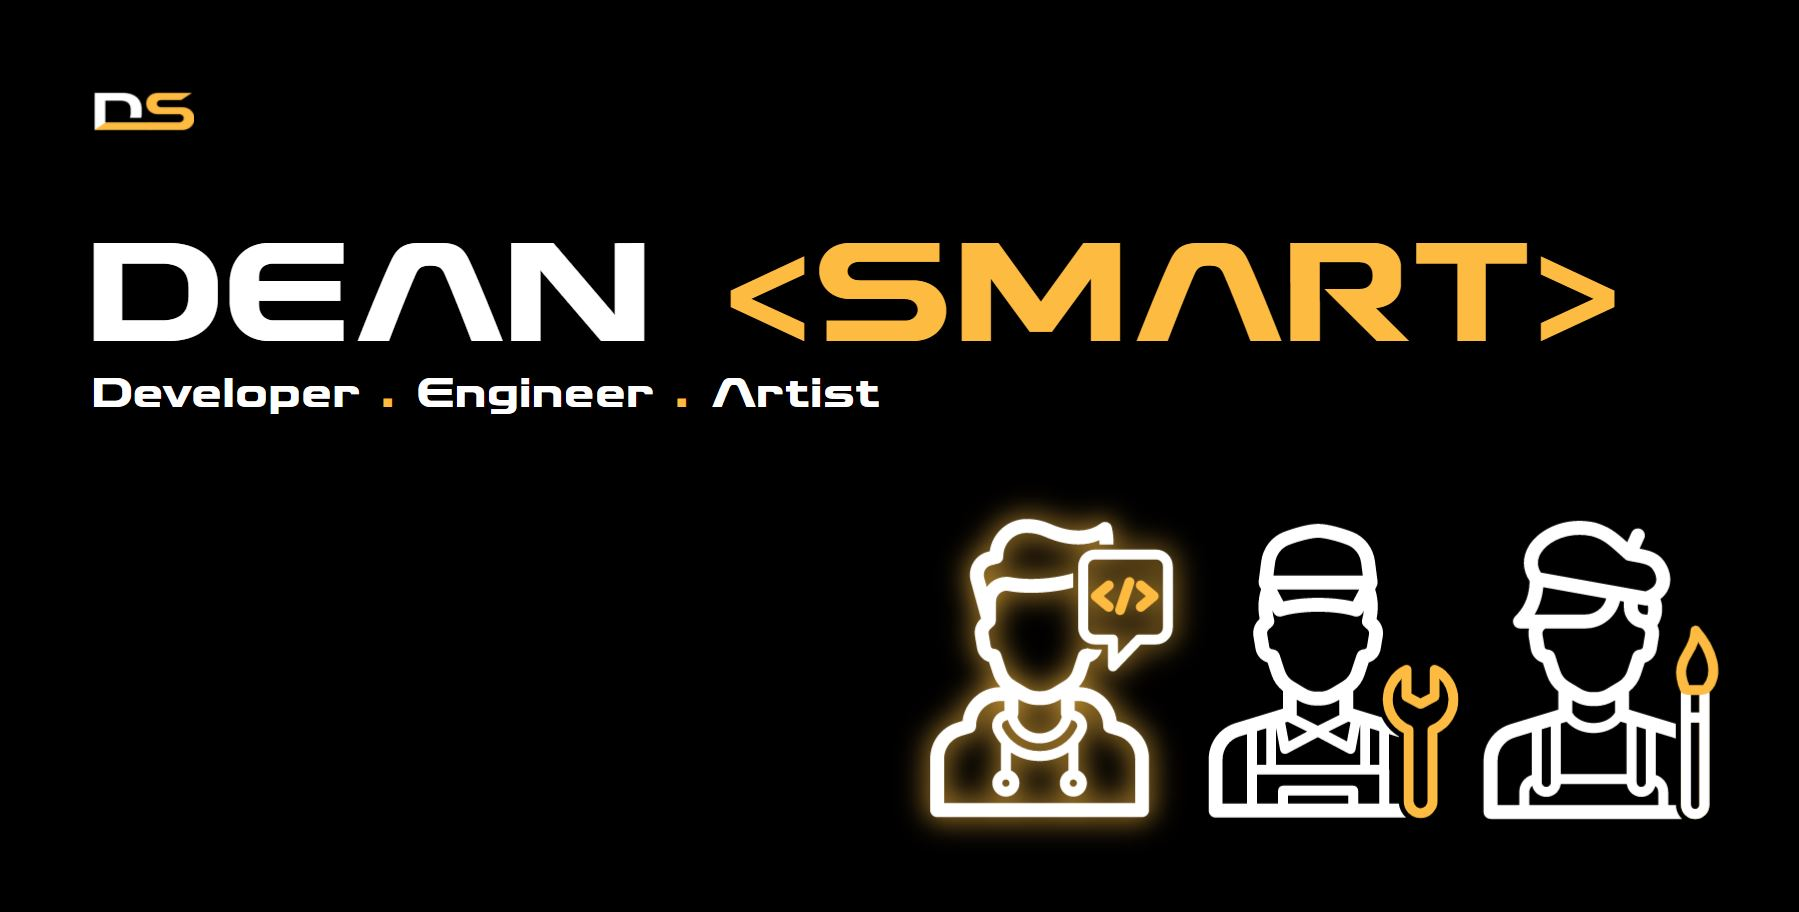
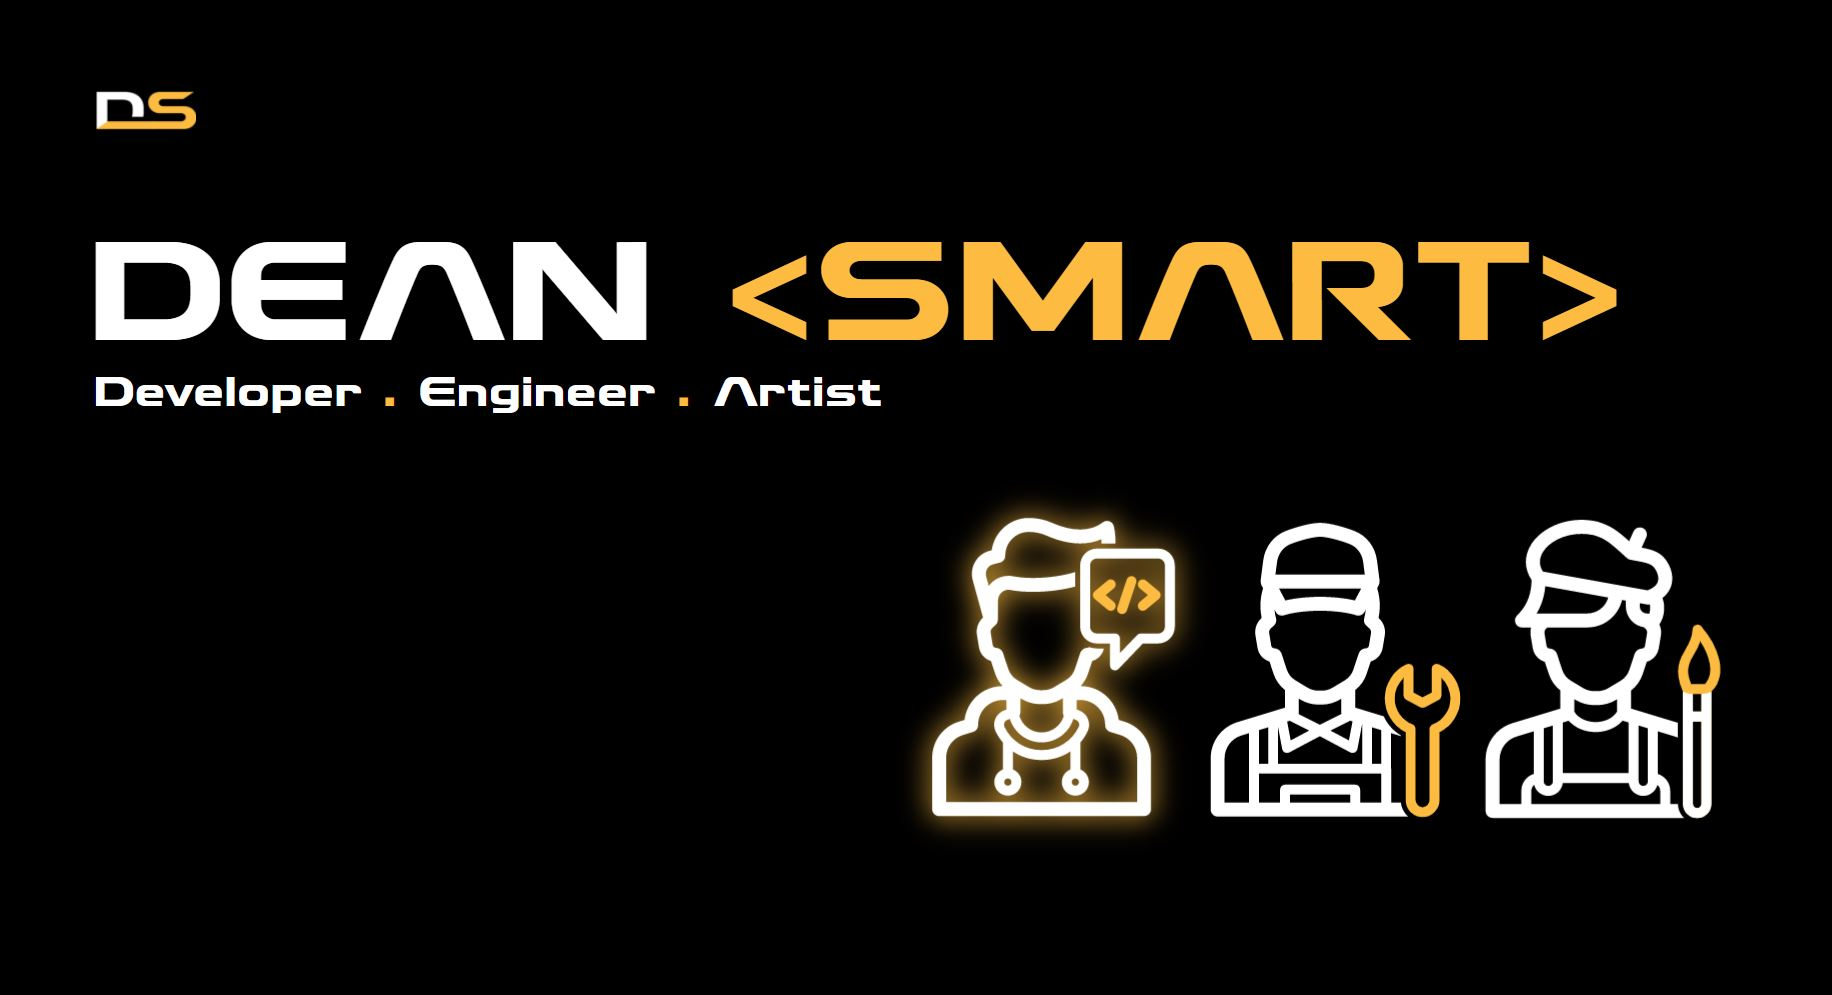
webp images now have png fallback

Changed region(s): [[0.4981, 0.4912, 0.965, 0.9211], [0.0311, 0.2149, 0.9027, 0.4605], [0.0311, 0.0921, 0.1245, 0.1535]]

diff --git a/src/components/Skills/Skills.js b/src/components/Skills/Skills.js
@@ -9,23 +9,41 @@ import art from '../../assets/images/artist.svg';
 import engineer from '../../assets/images/engineer.svg';
 import coder from '../../assets/images/coder.svg';
 import htmlLogo from '../../assets/images/html.webp';
+import htmlLogoPng from '../../assets/images/html.png';
 import cssLogo from '../../assets/images/css.webp';
+import cssLogoPng from '../../assets/images/css.png';
 import phpLogo from '../../assets/images/php.webp';
+import phpLogoPng from '../../assets/images/php.png';
 import laravelLogo from '../../assets/images/laravel.webp';
+import laravelLogoPng from '../../assets/images/laravel.png';
 import reactLogo from '../../assets/images/react.webp';
+import reactLogoPng from '../../assets/images/react.png';
 import jsLogo from '../../assets/images/js.webp';
+import jsLogoPng from '../../assets/images/js.png';
 import liam from '../../assets/images/liam.webp';
+import liamPng from '../../assets/images/liam.png';
 import siam from '../../assets/images/siam.webp';
+import siamPng from '../../assets/images/siam.png';
 import wilson from '../../assets/images/wilson.webp';
+import wilsonPng from '../../assets/images/wilson.png';
 import ronnie from '../../assets/images/ronnie.webp';
+import ronniePng from '../../assets/images/ronnie.png';
 import oldMan from '../../assets/images/oldMan.webp';
+import oldManPng from '../../assets/images/oldMan.png';
 import her from '../../assets/images/her.webp';
+import herPng from '../../assets/images/her.png';
 import fs from '../../assets/images/fs.webp';
+import fsPng from '../../assets/images/fs.png';
 import aeroblade from '../../assets/images/aeroblade.webp';
+import aerobladePng from '../../assets/images/aeroblade.png';
 import patent from '../../assets/images/patent.webp';
+import patentPng from '../../assets/images/patent.png';
 import dyson from '../../assets/images/dyson.webp';
+import dysonPng from '../../assets/images/dyson.png';
 import db11 from '../../assets/images/db11.webp';
+import db11Png from '../../assets/images/db11.png';
 import damper from '../../assets/images/damper.webp';
+import damperPng from '../../assets/images/damper.png';
 
 class Skills extends Component {
 
@@ -37,30 +55,102 @@ class Skills extends Component {
                 <div className="content__drag-area">
                     <span className="spacer"></span>
                     <div className="img-wrap3">
-                        <img className="img-trail3" src={htmlLogo} alt="HTML Logo"></img>
-                        <img className="img-trail3" src={cssLogo} alt="CSS Logo"></img>
-                        <img className="img-trail3" src={phpLogo} alt="php Logo"></img>
-                        <img className="img-trail3" src={laravelLogo} alt="Laravel Logo"></img>
-                        <img className="img-trail3" src={reactLogo} alt="React Logo"></img>
-                        <img className="img-trail3" src={jsLogo} alt="JS Logo"></img>
+                        <picture className="img-trail3">   
+                            <source srcSet={htmlLogo} type="image/webp" />
+                            <source srcSet={htmlLogoPng} type="image/png" />
+                            <img src={htmlLogoPng} alt="HTML Logo" />
+                        </picture> 
+                        <picture className="img-trail3">   
+                            <source srcSet={cssLogo} type="image/webp" />
+                            <source srcSet={cssLogoPng} type="image/png" />
+                            <img src={cssLogoPng} alt="CSS Logo" />
+                        </picture> 
+                        <picture className="img-trail3">   
+                            <source srcSet={phpLogo} type="image/webp" />
+                            <source srcSet={phpLogoPng} type="image/png" />
+                            <img src={phpLogo} alt="php Logo" />
+                        </picture> 
+                        <picture className="img-trail3">   
+                            <source srcSet={laravelLogo} type="image/webp" />
+                            <source srcSet={laravelLogoPng} type="image/png" />
+                            <img src={laravelLogo} alt="Laravel Logo" />
+                        </picture> 
+                        <picture className="img-trail3">   
+                            <source srcSet={reactLogo} type="image/webp" />
+                            <source srcSet={reactLogoPng} type="image/png" />
+                            <img src={reactLogo} alt="React Logo" />
+                        </picture> 
+                        <picture className="img-trail3">   
+                            <source srcSet={jsLogo} type="image/webp" />
+                            <source srcSet={jsLogoPng} type="image/png" />
+                            <img src={jsLogo} alt="JS Logo" />
+                        </picture> 
                         <div className="img-drag3" style={{backgroundImage: `url(${coder})`}}></div>
                     </div>
                     <div className="img-wrap2">
-                        <img className="img-trail2" src={fs} alt="formula student racecar"></img>
-                        <img className="img-trail2" src={aeroblade} alt="aston martin deployable spoiler close up"></img>
-                        <img className="img-trail2" src={patent} alt="active aerodynamic patent"></img>
-                        <img className="img-trail2" src={db11} alt="aston martin db11"></img>
-                        <img className="img-trail2" src={dyson} alt="dyson electric vehicle concept"></img>
-                        <img className="img-trail2" src={damper} alt="screenshot of formula student adjustable damper program"></img>
+                        <picture className="img-trail2">   
+                            <source srcSet={fs} type="image/webp" />
+                            <source srcSet={fsPng} type="image/png" />
+                            <img src={fs} alt="formula student racecar" />
+                        </picture> 
+                        <picture className="img-trail2">   
+                            <source srcSet={aeroblade} type="image/webp" />
+                            <source srcSet={aerobladePng} type="image/png" />
+                            <img src={aeroblade} alt="aston martin deployable spoiler close up" />
+                        </picture> 
+                        <picture className="img-trail2">   
+                            <source srcSet={patent} type="image/webp" />
+                            <source srcSet={patentPng} type="image/png" />
+                            <img src={patent} alt="active aerodynamic patent" />
+                        </picture> 
+                        <picture className="img-trail2">   
+                            <source srcSet={db11} type="image/webp" />
+                            <source srcSet={db11Png} type="image/png" />
+                            <img src={db11} alt="aston martin db11" />
+                        </picture>
+                        <picture className="img-trail2">   
+                            <source srcSet={dyson} type="image/webp" />
+                            <source srcSet={dysonPng} type="image/png" />
+                            <img src={dyson} alt="dyson electric vehicle concept" />
+                        </picture>  
+                        <picture className="img-trail2">   
+                            <source srcSet={damper} type="image/webp" />
+                            <source srcSet={damperPng} type="image/png" />
+                            <img src={damper} alt="screenshot of formula student adjustable damper program" />
+                        </picture>  
                         <div className="img-drag2" style={{backgroundImage: `url(${engineer})`}}></div>
                     </div>
                     <div className="img-wrap">
-                        <img className="img-trail" src={wilson} alt="colour drawing of a dog"></img>
-                        <img className="img-trail" src={siam} alt="painting of a wedding with aeroplanes"></img>
-                        <img className="img-trail" src={liam} alt="greyscale painting of bearded man"></img>
-                        <img className="img-trail" src={ronnie} alt="digital colour drawing of body builder"></img>
-                        <img className="img-trail" src={oldMan} alt="colour painting of old mans face"></img>
-                        <img className="img-trail" src={her} alt="colour painting of ladies face"></img>
+                        <picture className="img-trail">   
+                            <source srcSet={wilson} type="image/webp" />
+                            <source srcSet={wilsonPng} type="image/png" />
+                            <img src={wilson} alt="colour drawing of a dog" />
+                        </picture>  
+                        <picture className="img-trail">   
+                            <source srcSet={siam} type="image/webp" />
+                            <source srcSet={siamPng} type="image/png" />
+                            <img src={siam} alt="painting of a wedding with aeroplanes" />
+                        </picture>  
+                        <picture className="img-trail">   
+                            <source srcSet={liam} type="image/webp" />
+                            <source srcSet={liamPng} type="image/png" />
+                            <img src={liam} alt="greyscale painting of bearded man" />
+                        </picture>  
+                        <picture className="img-trail">   
+                            <source srcSet={ronnie} type="image/webp" />
+                            <source srcSet={ronniePng} type="image/png" />
+                            <img src={ronnie} alt="digital colour drawing of body builder" />
+                        </picture>  
+                        <picture className="img-trail">   
+                            <source srcSet={oldMan} type="image/webp" />
+                            <source srcSet={oldManPng} type="image/png" />
+                            <img src={oldMan} alt="colour painting of old mans face" />
+                        </picture>  
+                        <picture className="img-trail">   
+                            <source srcSet={her} type="image/webp" />
+                            <source srcSet={herPng} type="image/png" />
+                            <img src={her} alt="colour painting of ladies face" />
+                        </picture>  
                         <div className="img-drag" style={{backgroundImage: `url(${art})`}}></div>
                     </div>
                     <p className="click-drag"><span className="text-highlight">^</span> Click <span className="text-highlight">&amp;</span> Drag</p>                

diff --git a/src/components/App/App.js b/src/components/App/App.js
@@ -4,7 +4,9 @@ import Header from '../Header/Header';
 import Skills from '../Skills';
 import Card from '../Card/Card';
 import frankenstyle from '../../assets/images/frankenstyle.webp';
+import frankenstylePng from '../../assets/images/frankenstyle.png';
 import tourn from '../../assets/images/tourn.webp';
+import tournPng from '../../assets/images/tourn.png';
 import Contact from '../Contact/Contact';
 
 
@@ -18,6 +20,7 @@ const App = ({ home, projects, contact }) => (
     <div className="projects">
       <Card appName="FRANKENSTYLE"
               appImage={frankenstyle}
+              appImagePng={frankenstylePng}
               appDesc="Interactive four player Pictionary style game where players take it in turns to draw and guess randomized words."
               appLinkCode="https://github.com/deanssmart/frankenstyle"
               appLinkLive="https://deanssmart.github.io/frankenstyle/"
@@ -25,6 +28,7 @@ const App = ({ home, projects, contact }) => (
       
       <Card appName="TOURN"
             appImage={tourn}
+            appImagePng={tournPng}
             appDesc="Tron(esque) themed app which randomly creates pairings for a tournament bracket from user collected data."
             appLinkCode="https://github.com/deanssmart/TOURN"
             appLinkLive="https://deanssmart.github.io/TOURN/"

diff --git a/src/components/Card/Card.js b/src/components/Card/Card.js
@@ -4,14 +4,18 @@ import React, { Component } from 'react';
 class Card extends Component {
 
     render() {
-        const { appName, appImage, appDesc, appLinkCode, appLinkLive } = this.props;
+        const { appName, appImage, appImagePng, appDesc, appLinkCode, appLinkLive } = this.props;
         return (
             <>
                 <div className="container">
                     <div className="card">
-                        <div className="imgBox">
-                            <img src={appImage} alt="screenshot of frankenstyle app"></img>
-                        </div>
+                        {/* <div className="imgBox"> */}
+                            <picture className="imgBox">   
+                                <source srcSet={appImage} type="image/webp" />
+                                <source srcSet={appImagePng} type="image/png" />
+                                <img src={appImage} alt={"screenshot of app homescreen"} />
+                            </picture>  
+                        {/* </div> */}
                         <div className="contentBox">
                             <h2>{appName}</h2>
                             <div className="description">
